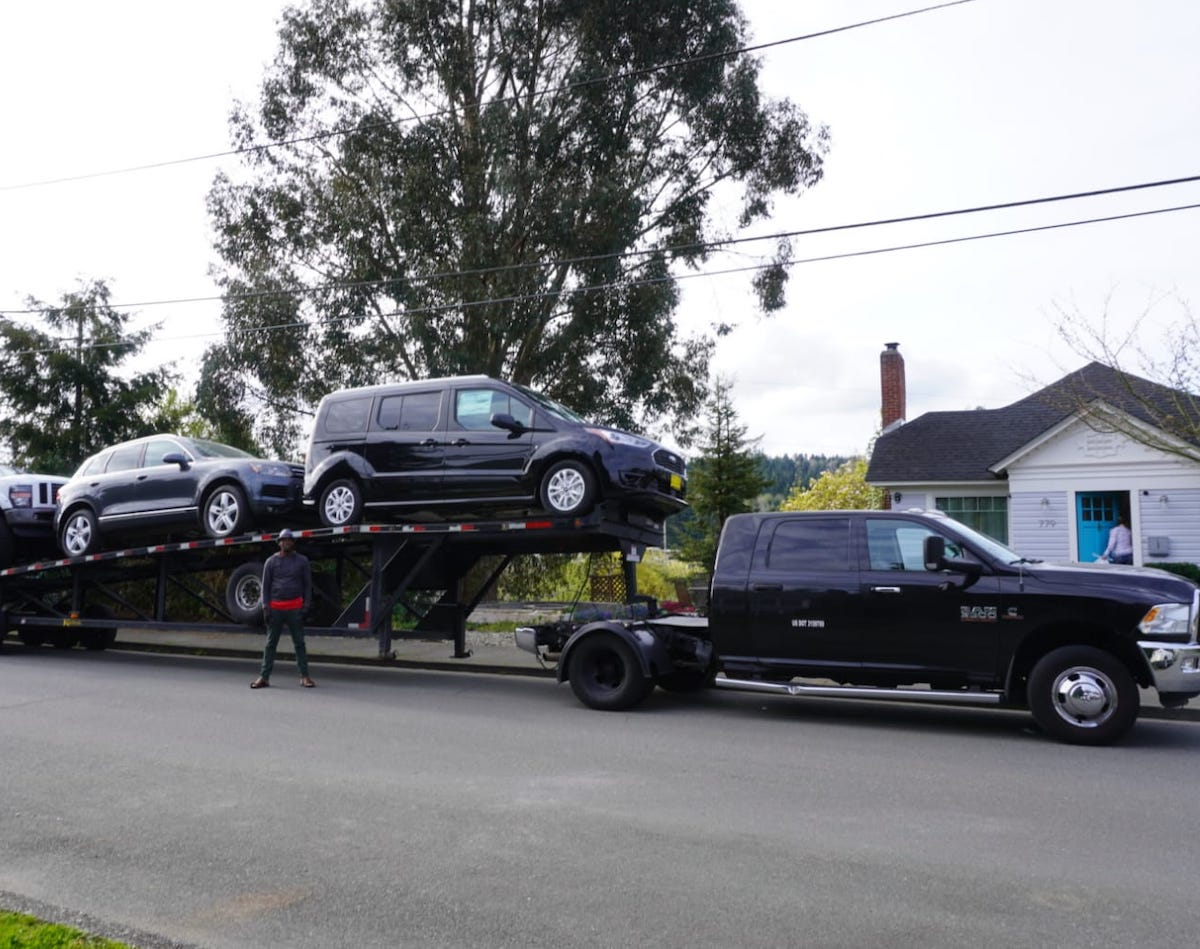
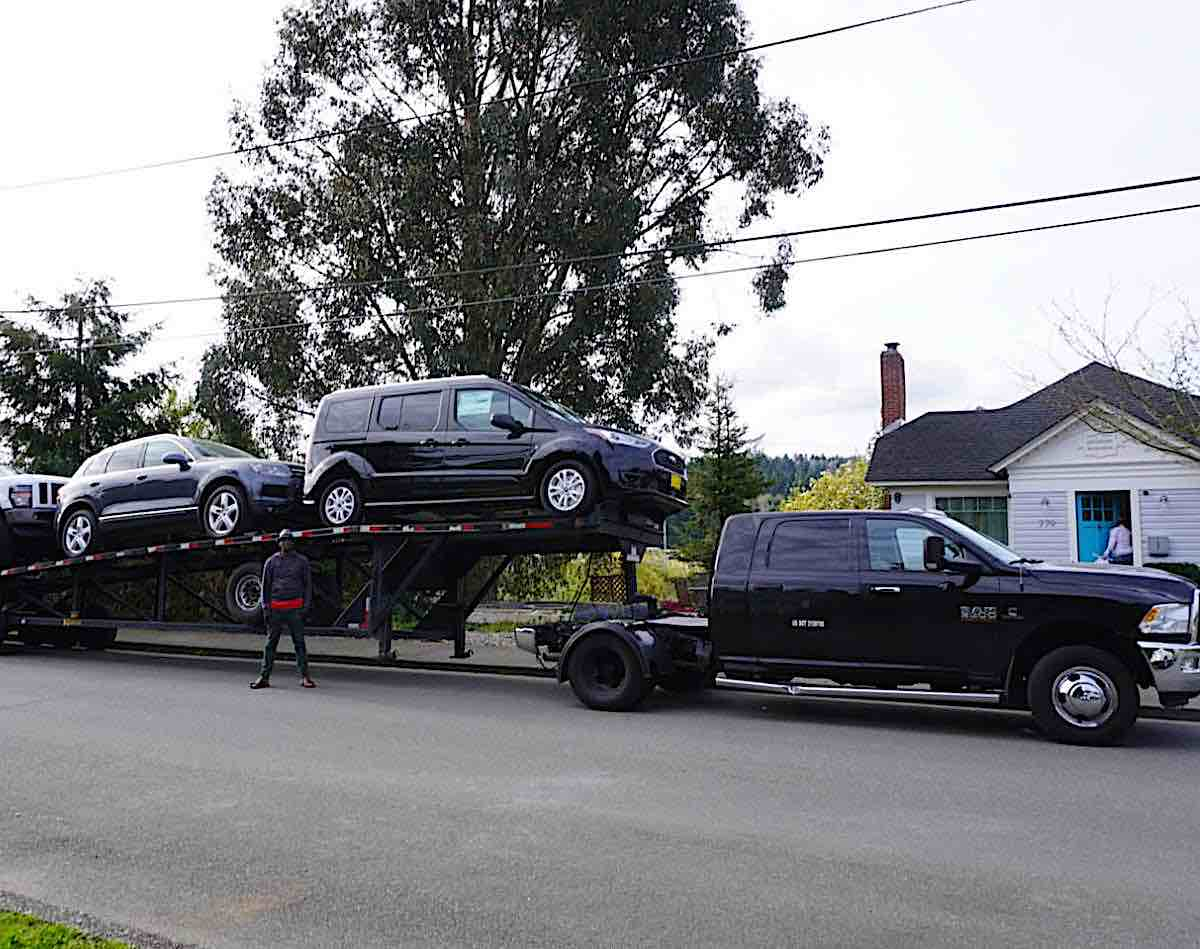
optimize images, quotation generator progress

diff --git a/src/components/QuotationGenerator.jsx b/src/components/QuotationGenerator.jsx
@@ -1,14 +1,116 @@
-import { Row, Col } from "antd";
+import { Row, Col, AutoComplete } from 'antd';
 
 export default function QuotationGenerator() {
+  const options = [{ value: 'Burns Bay Road' }, { value: 'Downing Street' }, { value: 'Wall Street' }];
   return (
     <>
-      <Row gutter={[16, 16]} justify='center'>
-        <Col xs={20} sm={18} md={10} lg={6} xl={6}>
-          
-          {'Work in Progress'}
+      <Row gutter={[16, 16]} justify="center">
+        <Col xs={20} sm={18} md={12} lg={8} xl={6}>
+          <div className="quote">
+            <div className="quote__header">
+              <h3>Instant Car Shipping Quote</h3>
+              <p>Calculate your car shipping rate in 3 easy steps!</p>
+            </div>
+
+            <div className="quote__body"></div>
+            <div className="quote__section">
+              <span className="quote__section--step">1</span>
+              <span className="quote__section--title">Origin &amp; Destination</span>
+            </div>
+            <div className="quote__input-container">
+              <AutoComplete placeholder="Pickup Location" />
+              <AutoComplete
+                style={{ width: 200 }}
+                options={options}
+                placeholder="Delivery Location"
+                filterOption={(inputValue, option) =>
+                  option.value.toUpperCase().indexOf(inputValue.toUpperCase()) !== -1
+                }
+              />
+            </div>
+          </div>
         </Col>
       </Row>
+
+      <style jsx global>
+        {`
+          .quote {
+            margin-top: 20px;
+            z-index: 3;
+            right: 0;
+            padding-bottom: 3px;
+            border: 2px solid #fff;
+            box-shadow: 0 0 0 0.5rem rgba(0, 0, 0, 0.4);
+            background: #fff;
+          }
+
+          .quote__header {
+            text-align: center;
+            width: 100%;
+            padding-top: 1.2rem;
+            padding-bottom: 1.2rem;
+            background-color: #f63e0c;
[1 lines of base64/hex data omitted]
+            background-repeat: no-repeat;
+            background-size: auto 100%;
+            color: #fff;
+          }
+
+          .quote__header h3 {
+            font-weight: 700;
+            font-size: 18px;
+            border-bottom: 1px solid black;
+            padding-bottom: 0.8rem;
+            margin: 0 1.5rem 0.5rem;
+            color: #fff;
+          }
+
+          .quote__header p {
+            font-size: 14px;
+            font-weight: 400;
+            margin-bottom: 0;
+            line-height: 1.8rem;
+            opacity: 1;
+            color: #fff;
+          }
+
+          .quote__body {
+            text-align: center;
+            padding: 1rem 1rem 0.3rem;
+          }
+
+          .quote__section {
+            background: #021c3d;
+            padding: 0.2rem 1.4rem;
+            display: flex;
+            color: #fff;
+            box-sizing: border-box;
+          }
+
+          .quote__section--step {
+            font-size: 17px;
+            text-align: center;
+            font-weight: 700;
+            padding-right: 1.1rem;
+            border-right: 1px solid hsla(0, 0%, 100%, 0.3);
+            margin: 0.6rem 0;
+          }
+
+          .quote__section--title {
+            font-size: 16px;
+            padding-left: 1.1rem;
+            line-height: 2.05rem;
+            margin: 0.6rem 0;
+          }
+
+          .quote__input-container {
+            border: 1px solid #ccc;
+            border-top: 0;
+            padding: 1rem;
+            margin-bottom: 1rem;
+          }
+        `}
+      </style>
     </>
   );
 }
